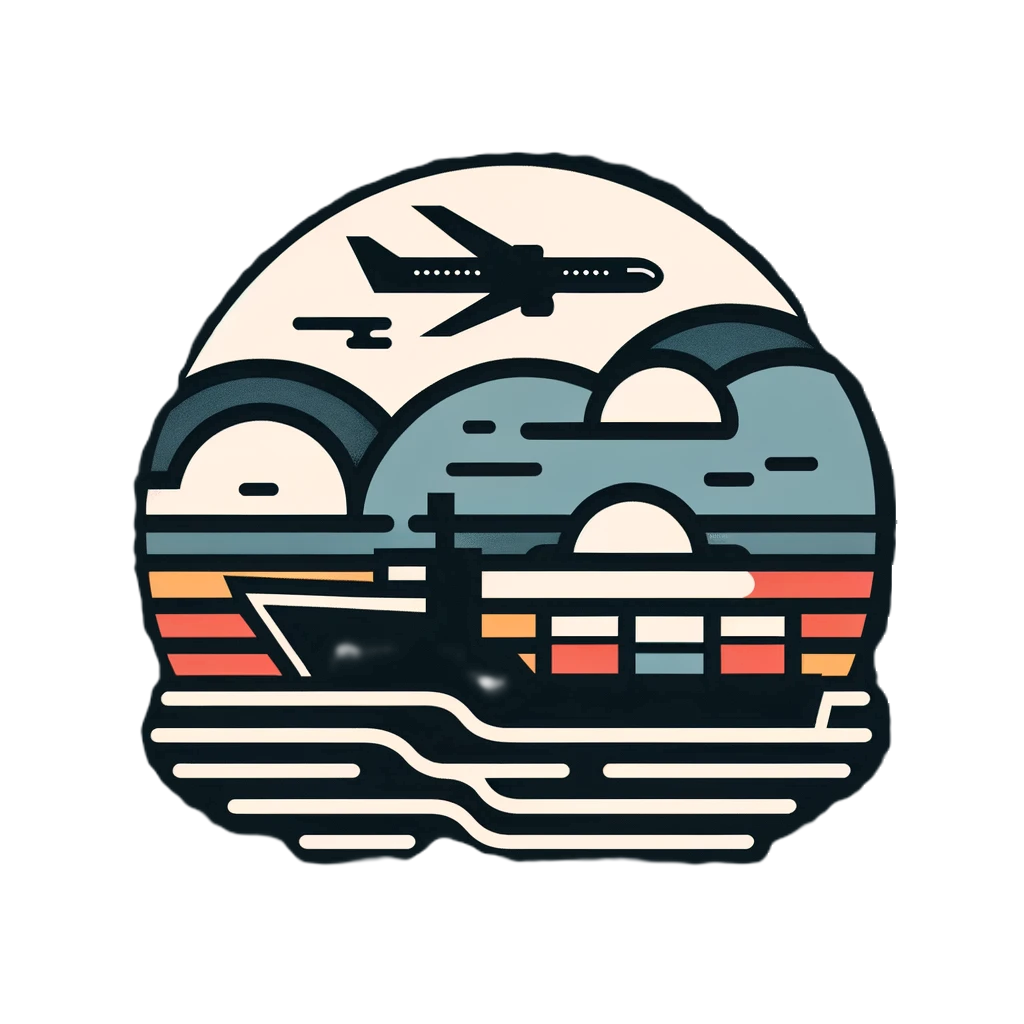
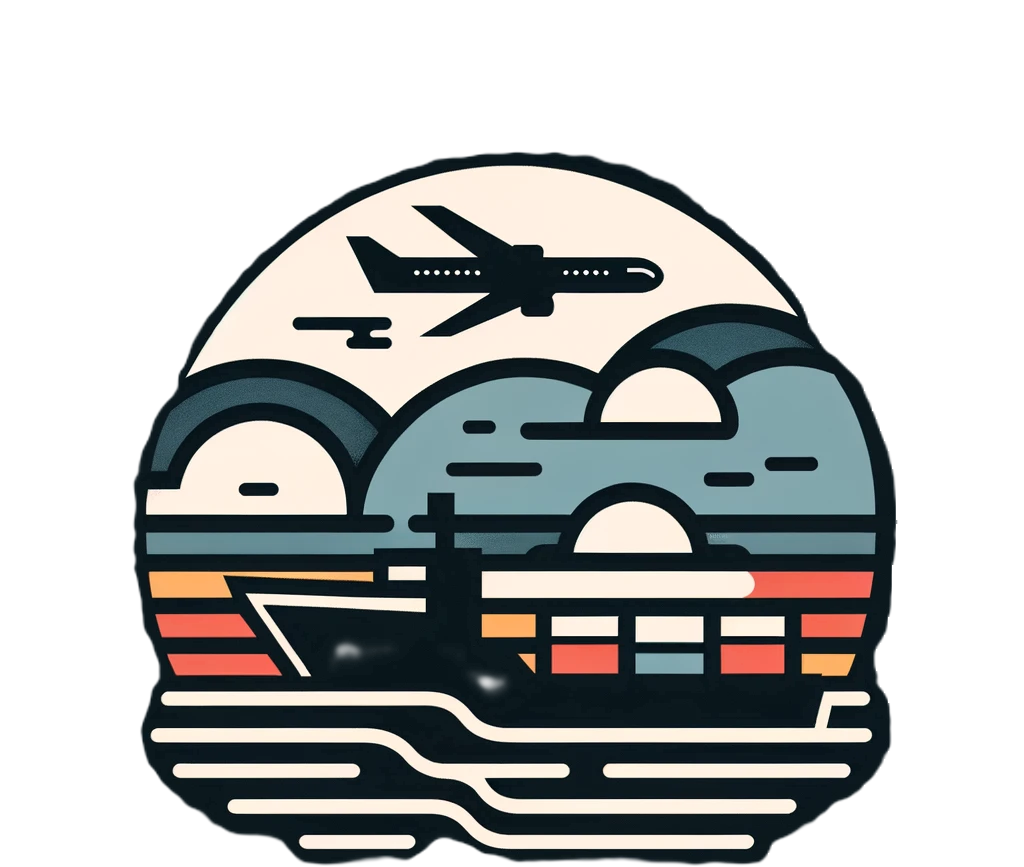
UPDT: adding visuals to app.py

diff --git a/news_app/app.py b/news_app/app.py
@@ -30,7 +30,7 @@ with st.container():
     # Display an image with a specified width, maintaining aspect ratio
     with col2:
         #st.image('https://raw.githubusercontent.com/pablo-git8/GlobalLogisticsInsights/main/images/mar_air_transport.png', width=300)
-        st.image('https://raw.githubusercontent.com/pablo-git8/GlobalLogisticsInsights/main/images/background.png', width=320)
+        st.image('https://raw.githubusercontent.com/pablo-git8/GlobalLogisticsInsights/main/images/14c0ecef-68ef-4ce8-8bfe-bd63176ea5ef.png', width=320)
 
 # Initialize session state variable if it doesn't exist
 if 'show_text' not in st.session_state:
